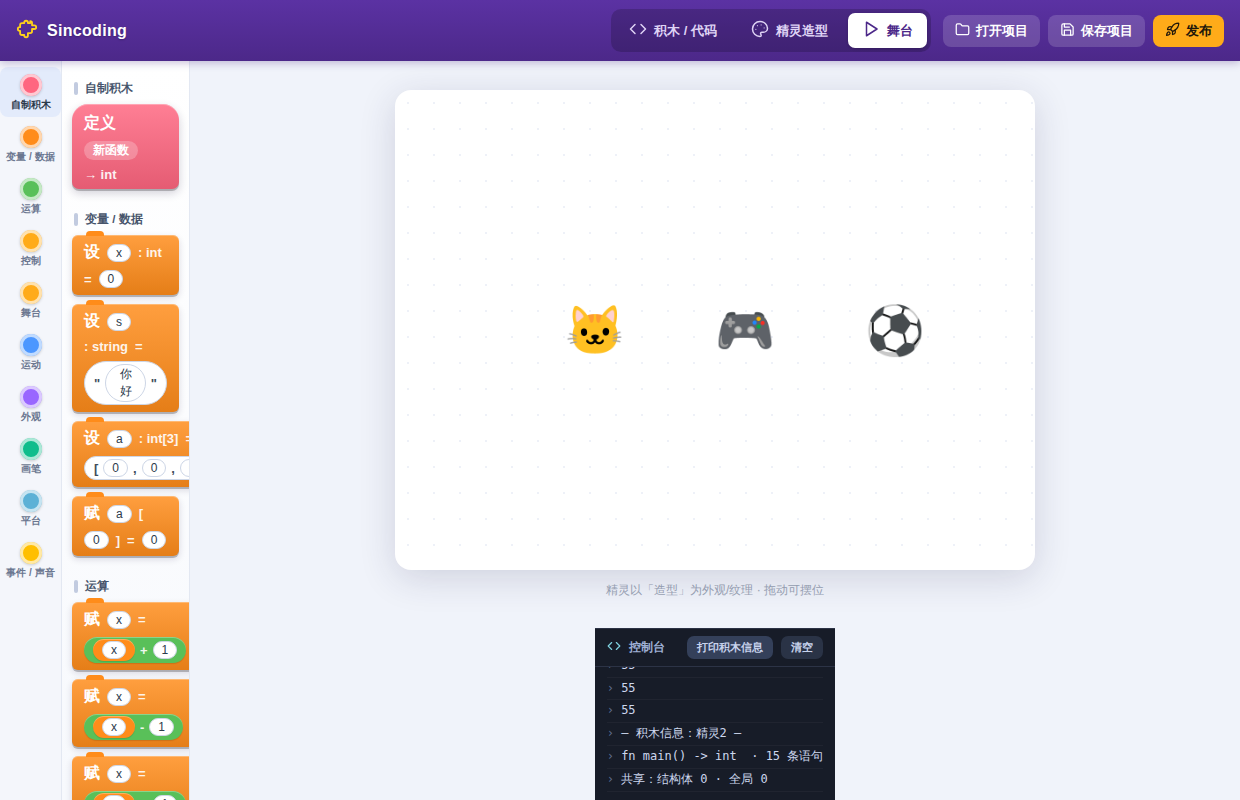
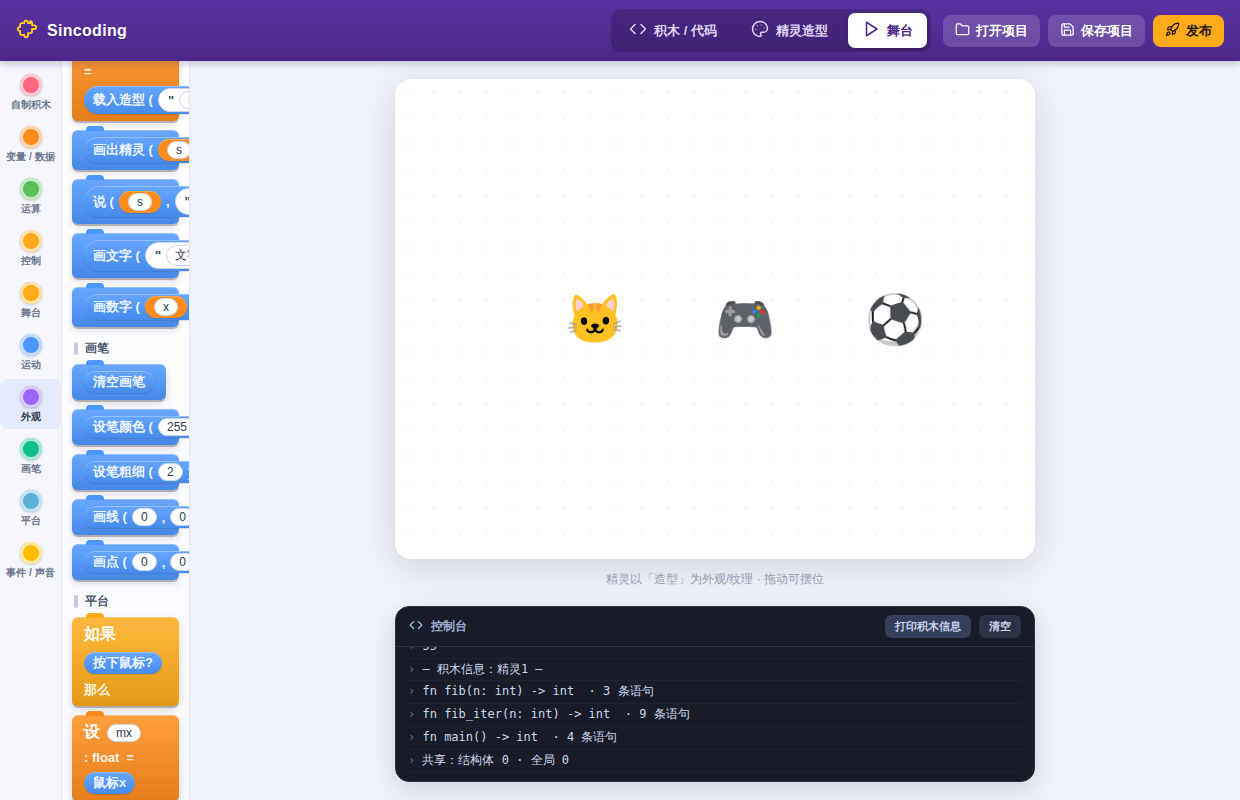
控制台与舞台等宽居中；调色板积木悬停弹出完整积木（不截断）
- 控制台：宽度改为与舞台一致（640），圆角卡片样式，居中对齐在舞台正下方
- 调色板积木悬停预览：积木在调色板内不换行、超宽即截断；鼠标悬停时在原位
  弹出**完整积木**（白卡片浮于画布之上、pointer-events:none 不挡点击），
  滚动/移开即收起；预览块不展开控制块嘴巴，保持紧凑一行

Claude-Session: https://claude.ai/code/session_01HiR2mBnFKd7jA92bvRoyae

diff --git a/editor/style.css b/editor/style.css
@@ -40,17 +40,25 @@ header .tabs button.active { background:#fff; color:#4c2889; box-shadow:0 1px 3p
 .cat-btn.active { background:#e3ebfb; color:#2b3a4b; }
 .cat-dot { width:22px; height:22px; border-radius:50%; box-shadow:inset 0 0 0 3px rgba(255,255,255,.65), 0 1px 3px rgba(0,0,0,.18); }
 .cat-nm { line-height:1.1; text-align:center; }
-.block-list { flex:1 1 auto; overflow:auto; padding:6px 10px 24px; }
+.block-list { flex:1 1 auto; overflow-y:auto; overflow-x:hidden; padding:6px 10px 24px; }
 .cat-sec { scroll-margin-top:6px; }
 .cat-sec h2 { font-size:11.5px; color:#46546b; margin:14px 2px 8px; font-weight:800;
   display:flex; align-items:center; gap:7px; }
 .cat-sec h2::before { content:""; width:5px; height:14px; border-radius:3px; background:var(--cc,#c2cbe0); }
 /* 积木预览：与画布同款外观，整块可点击加入（子元素不拦截点击） */
-.pal-wys { display:inline-block; margin:0 0 9px; cursor:pointer; border-radius:8px; transition:transform .08s; }
+.pal-wys { display:block; width:max-content; max-width:100%; margin:0 0 9px; cursor:pointer; }
 .pal-wys * { pointer-events:none; }
-.pal-wys:hover { transform:translateY(-1px) scale(1.01); }
-.pal-wys:active { transform:translateY(1px); }
 .pal-wys .block { cursor:pointer; }
+/* 调色板里积木不换行：超出宽度直接截断，靠 hover 弹出看完整 */
+.pal-wys .hdr { flex-wrap:nowrap; }
+.pal-wys .block, .pal-hover .block { white-space:nowrap; }
+.pal-wys .mouth { display:none; }   /* 预览不展开控制块嘴巴，保持紧凑一行 */
+
+/* 悬停弹出的完整积木（浮在画布之上，不被调色板宽度截断） */
+.pal-hover { position:fixed; z-index:55; pointer-events:none; background:#fff; border:1px solid var(--line);
+  border-radius:11px; padding:6px 7px; box-shadow:0 12px 34px rgba(20,15,50,.32); }
+.pal-hover[hidden] { display:none; }
+.pal-hover .hdr { flex-wrap:nowrap; }
 
 /* ---------- 工作区 ---------- */
 #work { flex:1 1 auto; position:relative; min-width:0; }
@@ -338,11 +346,12 @@ header .tabs button.active { font-weight:700; }
 #text-status.ok { background:rgba(127,209,127,.18); color:#9fe09f; }
 #text-status.warn { background:rgba(255,180,84,.2); color:#ffb454; }
 
-/* 舞台控制台 */
+/* 舞台控制台：宽度与舞台一致（640），居中对齐在舞台正下方 */
 #stage-view { flex-direction:column; }
-#console-panel { flex:0 0 auto; height:172px; display:flex; flex-direction:column;
-  background:#171c28; color:#cdd7ee; border-top:1px solid #2c3346; }
-.con-bar { flex:0 0 auto; display:flex; align-items:center; gap:8px; padding:7px 12px;
+#console-panel { flex:0 0 auto; width:640px; height:176px; margin:0 auto 18px; display:flex;
+  flex-direction:column; background:#171c28; color:#cdd7ee; border:1px solid #2c3346;
+  border-radius:14px; overflow:hidden; box-shadow:0 8px 28px rgba(40,40,80,.16); }
+.con-bar { flex:0 0 auto; display:flex; align-items:center; gap:8px; padding:8px 13px;
   font-size:12px; font-weight:700; color:#9fb0d6; border-bottom:1px solid #2c3346; }
 .con-bar svg { color:#7fd1e0; }
 .con-bar button { margin-left:0; border:0; background:#2a3346; color:#c7d2ec; font:inherit; font-size:11px;

diff --git a/editor/app.js b/editor/app.js
@@ -1129,6 +1129,22 @@
     return el("div", "block", sp.label || "");
   }
 
+  // hover 预览：鼠标浮到某积木上，在原位弹出**完整**积木（不被调色板宽度截断）
+  function palHoverEl() {
+    let h = document.getElementById("pal-hover");
+    if (!h) { h = el("div", "pal-hover"); h.id = "pal-hover"; h.hidden = true; document.body.appendChild(h); }
+    return h;
+  }
+  function showPalHover(wys) {
+    const blk = wys.firstElementChild; if (!blk) return;
+    const h = palHoverEl();
+    h.innerHTML = ""; h.appendChild(blk.cloneNode(true));
+    const r = wys.getBoundingClientRect();
+    h.style.left = r.left + "px"; h.style.top = r.top + "px";
+    h.hidden = false;
+  }
+  function hidePalHover() { const h = document.getElementById("pal-hover"); if (h) h.hidden = true; }
+
   function buildPalette() {
     const pal = document.getElementById("palette");
     pal.innerHTML = "";
@@ -1166,8 +1182,9 @@
           wys.dataset.kind = it;
           wys.append(renderStmt(NEW[it](), null));   // 复用积木渲染器 → 与画布同款外观
           wys.addEventListener("click", () => addStmt(it));
-          wys.title = "点击加入选中脚本";
         }
+        wys.addEventListener("mouseenter", () => showPalHover(wys));  // 悬停显示完整积木
+        wys.addEventListener("mouseleave", hidePalHover);
         sec.append(wys);
       });
       list.append(sec);
@@ -1175,6 +1192,7 @@
     setActiveCat(PALETTE[0].id);
     // 滚动联动：滚到哪个分类，导航就高亮哪个
     list.addEventListener("scroll", () => {
+      hidePalHover();
       let cur = PALETTE[0].id;
       for (const cat of PALETTE) {
         const sec = document.getElementById("cat-" + cat.id);

diff --git a/editor/README.md b/editor/README.md
@@ -12,7 +12,8 @@
 仿 Scratch 的积木编辑器，零依赖（纯 HTML/CSS/JS），线性描边图标。
 
 - **仿 Scratch 的分类积木区**：左侧分类导航（彩色圆点 + 名称，点击/滚动联动高亮），右侧
-  **「所见即所得」积木预览**——调色板里的积木与画布上长得**完全一致**（同一个渲染器），点一下即加入。
+  **「所见即所得」积木预览**——调色板里的积木与画布上长得**完全一致**（同一个渲染器），点一下即加入；
+  过宽的积木在调色板里截断显示，**鼠标悬停即弹出完整积木**（浮在画布之上，不被宽度截断）。
 - **运行高亮**：实时预览执行到哪个积木，画布上那个积木就**发光**（Scratch 风格 glow），直观看到执行流。
 - **舞台控制台**：舞台页带控制台，`print` 输出实时打印到控制台；「打印积木信息」一键把当前精灵的
   函数/语句数/共享状态 dump 到控制台。
